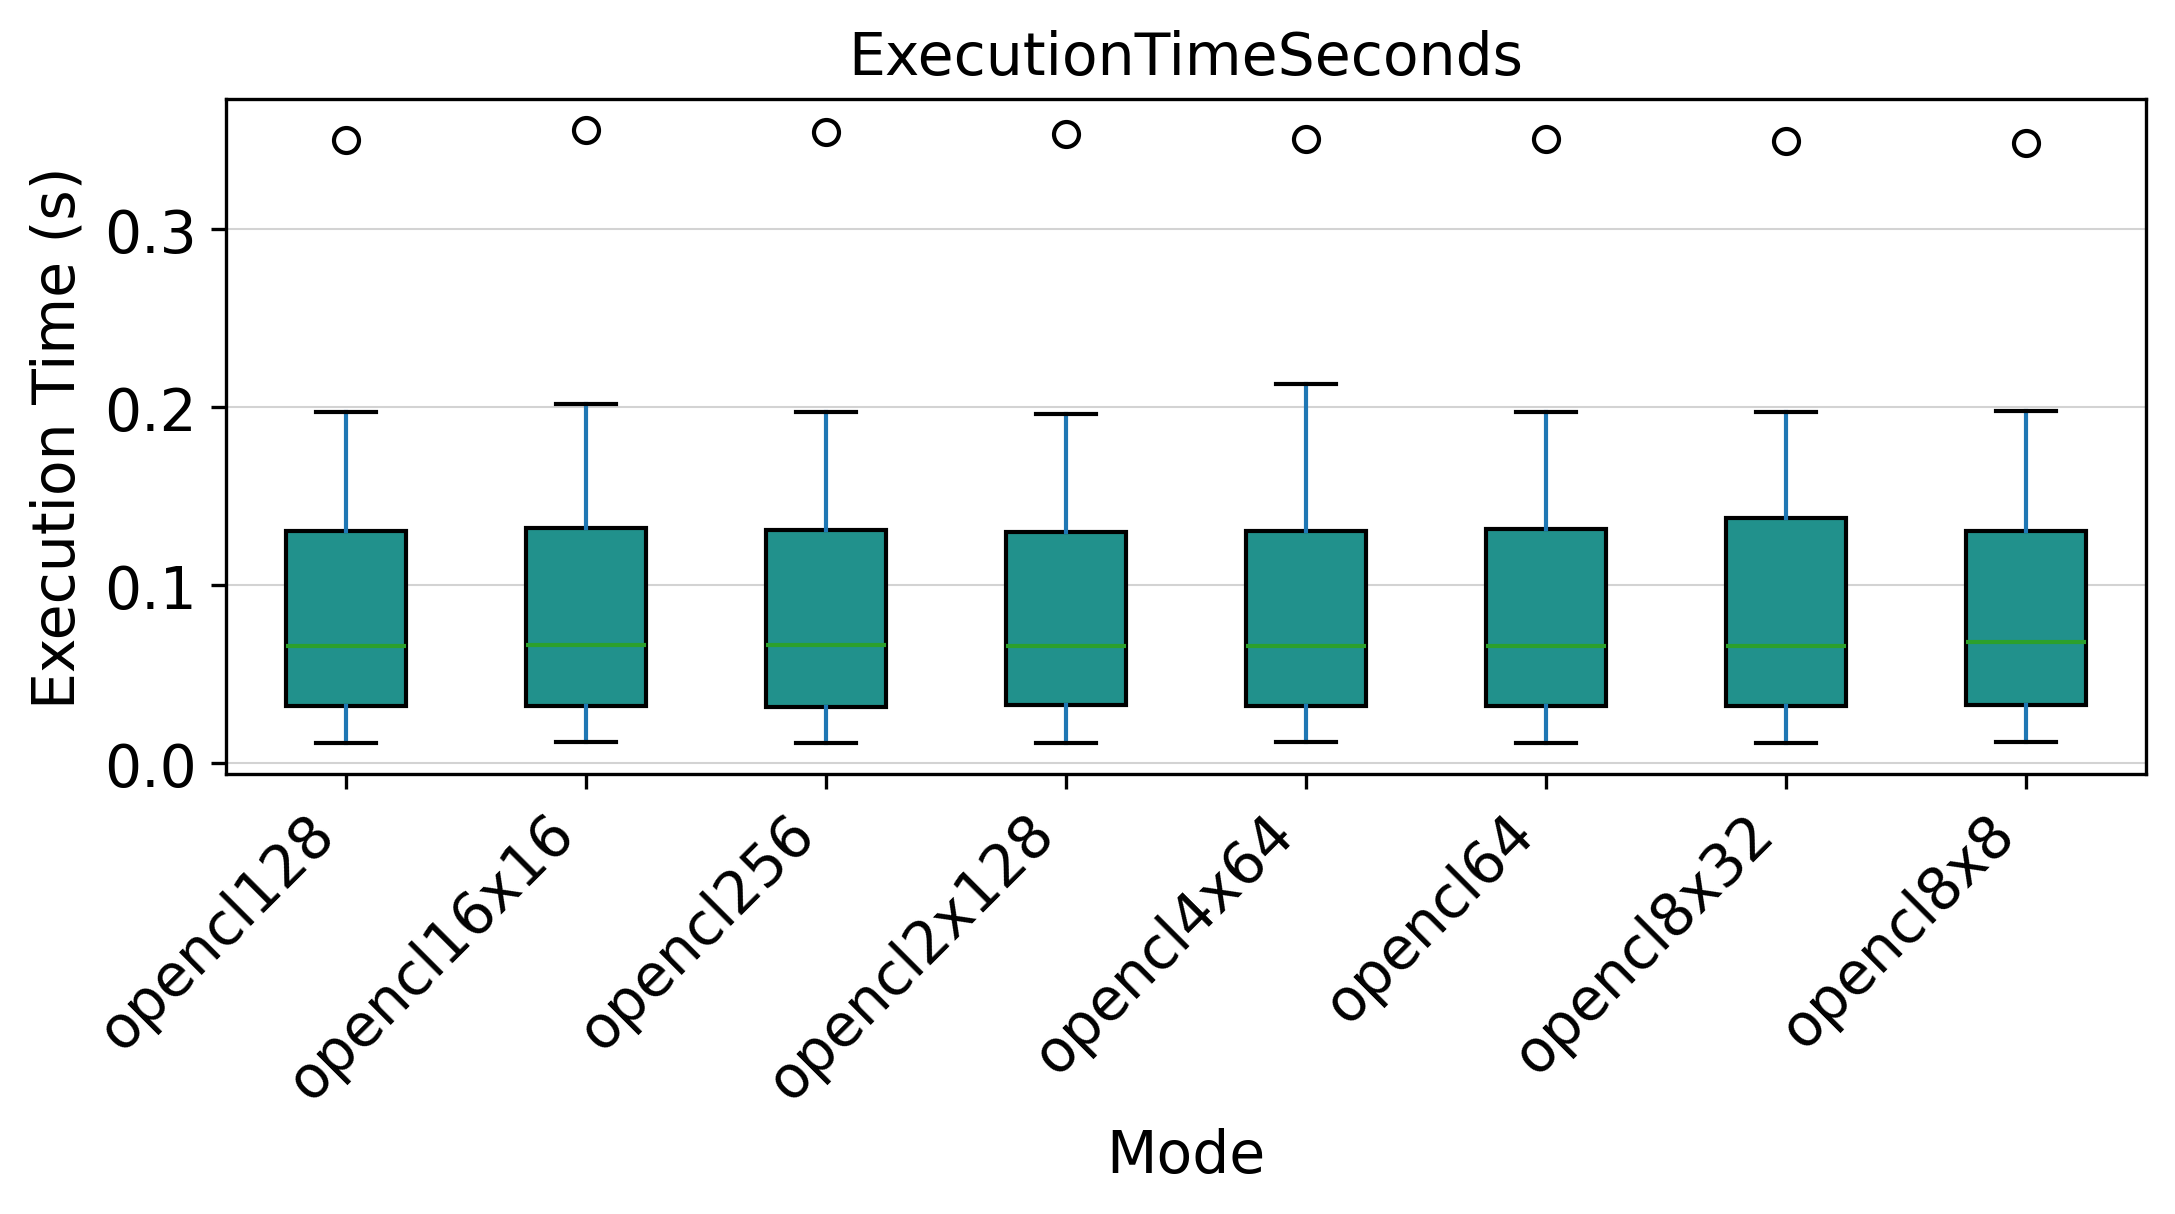
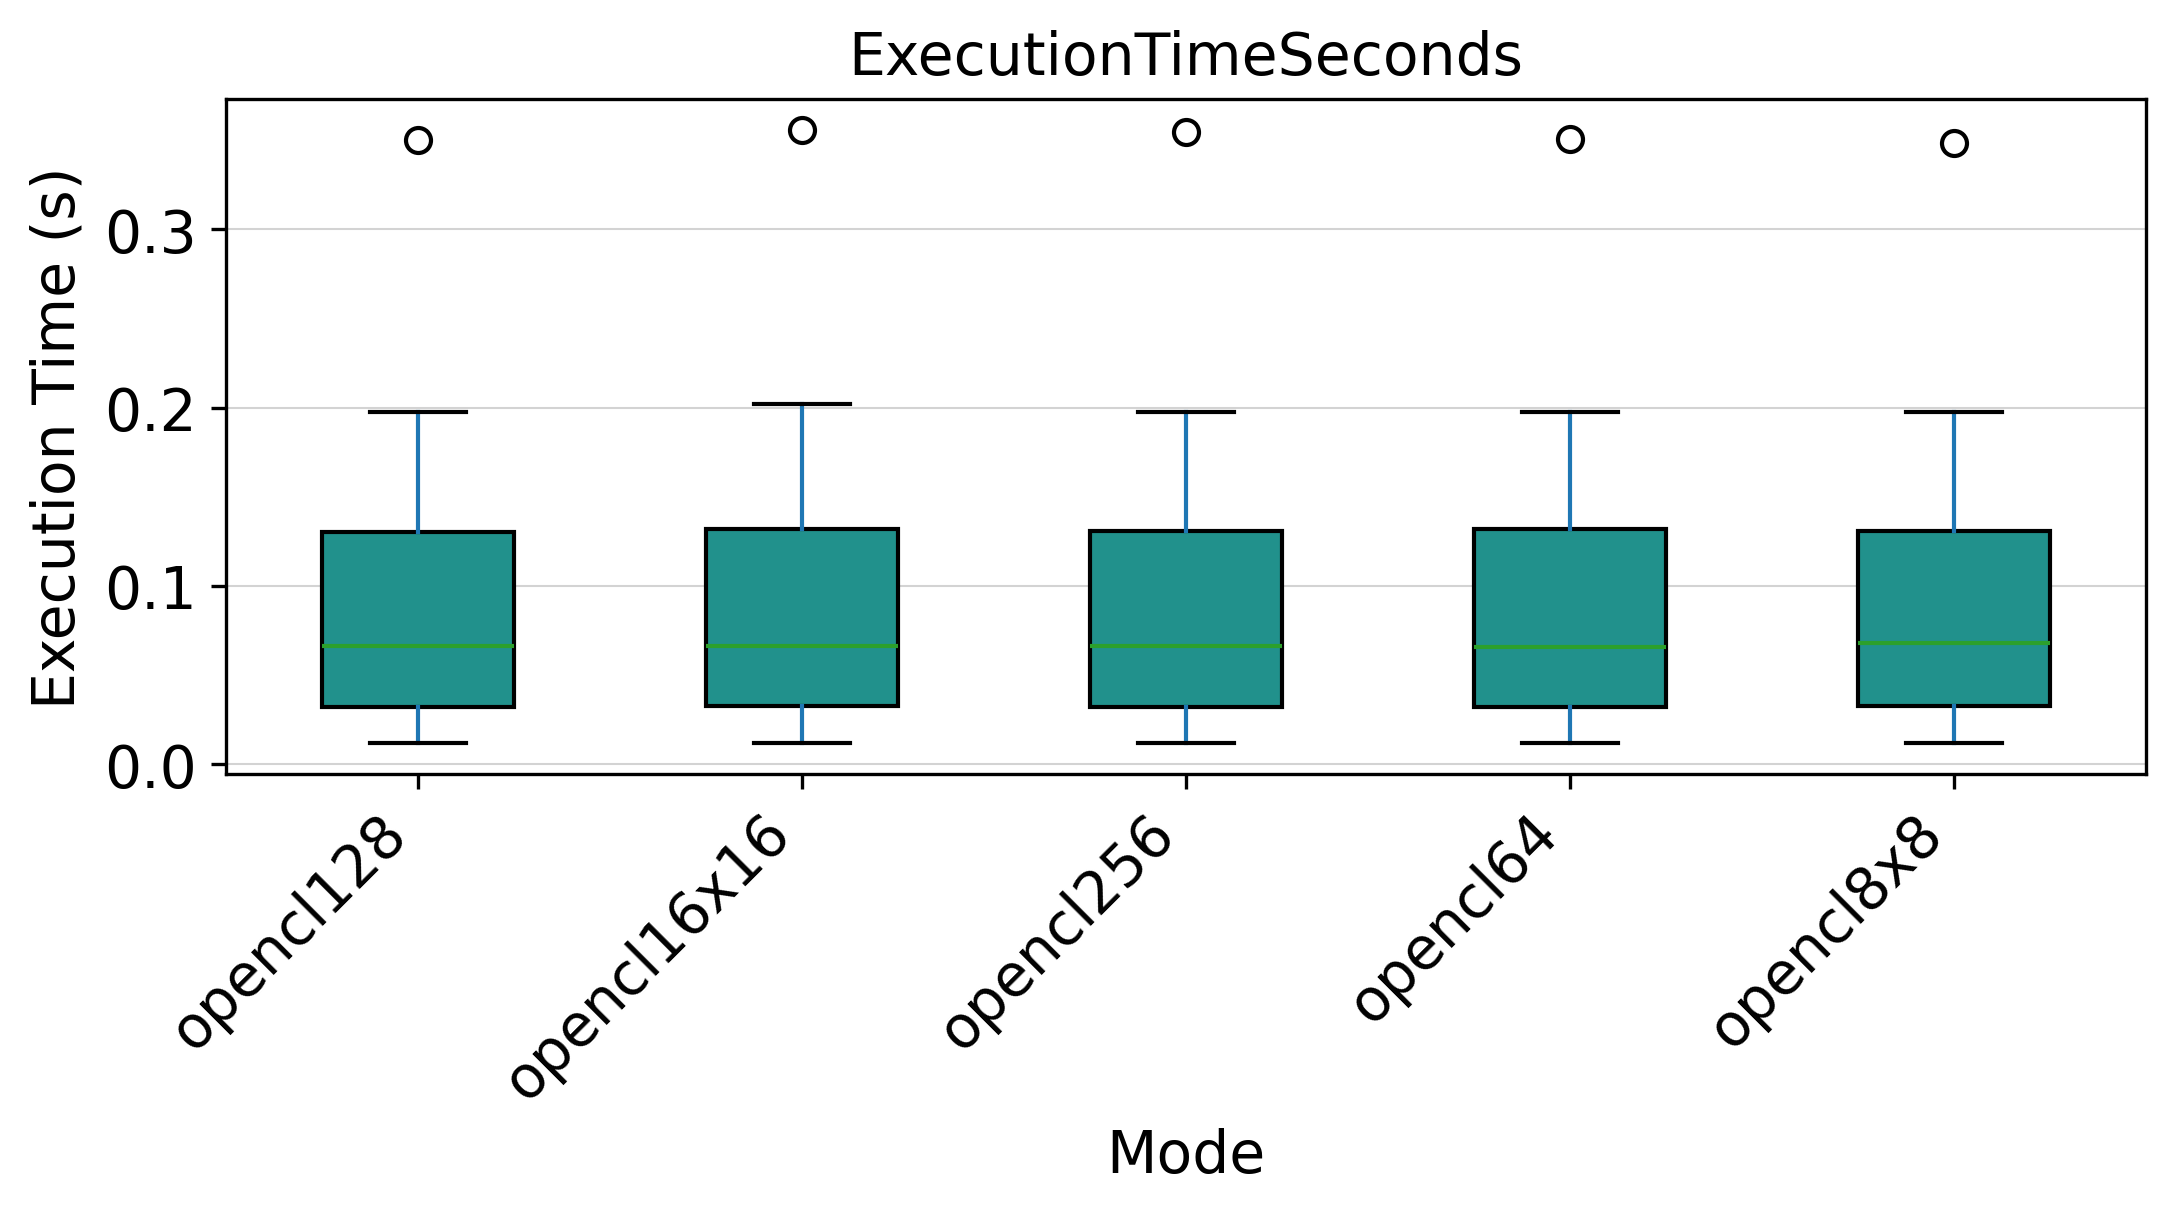
update main.py, clean code

diff --git a/visualize/main.py b/visualize/main.py
@@ -21,9 +21,10 @@ import os
 import pandas as pd
 import matplotlib.pyplot as plt
 from PIL import Image
+import numpy as np
 
 # Path to the CSV file containing execution time and image file data.
-csv_path = "../backup/intel/results.csv"
+csv_path = "../backup/m2pro/results.csv"
 
 # Directory where plots will be saved.
 output_dir = "./plots"
@@ -65,6 +66,12 @@ def analyze_csv():
 
     print("Data loaded successfully.")
 
+    # Remove rows for the mode "opencl32x16"
+    df = df[df["Mode"] != "opencl32x16"]
+    df = df[df["Mode"] != "opencl4x64"]
+    df = df[df["Mode"] != "opencl8x32"]
+    df = df[df["Mode"] != "opencl2x128"]
+
     # Dictionary to store computed image sizes keyed by image file path.
     image_sizes = {}
 
@@ -96,6 +103,12 @@ def analyze_csv():
         "axes.labelsize": 14
     })
 
+    # Set up a color map for different modes.
+    mode_colors = {'non-parallel': (np.float64(0.267004), np.float64(0.004874), np.float64(0.329415), np.float64(1.0)), 'opencl128': (np.float64(0.278826), np.float64(0.17549), np.float64(0.483397), np.float64(1.0)), 'opencl16x16': (np.float64(0.229739), np.float64(0.322361), np.float64(0.545706), np.float64(1.0)), 'opencl256': (np.float64(0.172719), np.float64(0.448791), np.float64(0.557885), np.float64(1.0)), 'opencl512': (np.float64(0.127568), np.float64(0.566949), np.float64(0.550556), np.float64(1.0)), 'opencl64': (np.float64(0.157851), np.float64(0.683765), np.float64(0.501686), np.float64(1.0)), 'opencl8x8': (np.float64(0.369214), np.float64(0.788888), np.float64(0.382914), np.float64(1.0)), 'opencv': (np.float64(0.678489), np.float64(0.863742), np.float64(0.189503), np.float64(1.0))}
+
+    print("Mode colors:", mode_colors)
+
+
     # -------------------------------------------------------------------------
     # Boxplot: Execution Time Distribution by Mode
     fig1, ax1 = plt.subplots(figsize=(8, 3))
@@ -112,7 +125,7 @@ def analyze_csv():
     ax1.grid(axis='y', color='lightgray', linestyle='-', linewidth=0.5, zorder=-1)
     ax1.set_xticklabels(ax1.get_xticklabels(), rotation=45, ha='right')
     plt.suptitle("")
-    save_plot(fig1, "boxplot_execution_time_per_mode.png")
+    save_plot(fig1, "boxplot_execution_time_per_mode_mac.png")
 
     # -------------------------------------------------------------------------
     # Boxplot: Execution Time Distribution for OpenCL Modes
@@ -131,7 +144,7 @@ def analyze_csv():
     ax2.grid(axis='y', color='lightgray', linestyle='-', linewidth=0.5, zorder=-1)
     ax2.set_xticklabels(ax2.get_xticklabels(), rotation=45, ha='right')
     plt.suptitle("")
-    save_plot(fig2, "boxplot_execution_time_opencl_modes.png")
+    save_plot(fig2, "boxplot_execution_time_opencl_modes_mac.png")
 
     # -------------------------------------------------------------------------
     # Bar Chart: Average Execution Time per Mode
@@ -140,7 +153,7 @@ def analyze_csv():
     fig3, ax3 = plt.subplots(figsize=(8, 3))
     avg_time_per_mode.plot(
         kind="bar",
-        color=[plt.cm.viridis(i / len(avg_time_per_mode)) for i in range(len(avg_time_per_mode))],
+        color=[mode_colors[mode] for mode in avg_time_per_mode.index],
         edgecolor="black",
         ax=ax3,
         zorder=3
@@ -148,14 +161,14 @@ def analyze_csv():
     ax3.set_xlabel("Mode")
     ax3.set_ylabel("Execution Time (s)")
     ax3.grid(axis='y', color='lightgray', linestyle='-', linewidth=0.5, zorder=-1)
-    save_plot(fig3, "barchart_avg_execution_time_per_mode.png")
+    save_plot(fig3, "barchart_avg_execution_time_per_mode_mac.png")
 
     # -------------------------------------------------------------------------
     # Bar Chart: Average Execution Time per Mode (Log Scale)
     fig4, ax4 = plt.subplots(figsize=(8, 3))
     avg_time_per_mode.plot(
         kind="bar",
-        color=[plt.cm.viridis(i / len(avg_time_per_mode)) for i in range(len(avg_time_per_mode))],
+        color=[mode_colors[mode] for mode in avg_time_per_mode.index],
         edgecolor="black",
         ax=ax4,
         zorder=3
@@ -164,7 +177,7 @@ def analyze_csv():
     ax4.set_xlabel("Mode")
     ax4.set_ylabel("Execution Time (s)")
     ax4.grid(axis='y', which='both', color='lightgray', linestyle='-', linewidth=0.5, zorder=-1)
-    save_plot(fig4, "barchart_avg_execution_time_per_mode_logscale.png")
+    save_plot(fig4, "barchart_avg_execution_time_per_mode_logscale_mac.png")
 
     # -------------------------------------------------------------------------
     # Bar Chart: Average Execution Time for OpenCL Modes
@@ -172,7 +185,7 @@ def analyze_csv():
     fig5, ax5 = plt.subplots(figsize=(8, 3))
     avg_time_opencl.plot(
         kind="bar",
-        color=[plt.cm.viridis(i / len(avg_time_opencl)) for i in range(len(avg_time_opencl))],
+        color=[mode_colors[mode] for mode in avg_time_opencl.index],
         edgecolor="black",
         ax=ax5,
         zorder=3
@@ -180,7 +193,7 @@ def analyze_csv():
     ax5.set_xlabel("Mode")
     ax5.set_ylabel("Execution Time (s)")
     ax5.grid(axis='y', color='lightgray', linestyle='-', linewidth=0.5, zorder=-1)
-    save_plot(fig5, "barchart_avg_execution_time_opencl_modes.png")
+    save_plot(fig5, "barchart_avg_execution_time_opencl_modes_mac.png")
 
     # -------------------------------------------------------------------------
     # Line Plot: Execution Time vs. Total Pixels by Mode
@@ -189,13 +202,13 @@ def analyze_csv():
         group_sorted = group.sort_values("TotalPixels")
         x = group_sorted["TotalPixels"]
         y = group_sorted["ExecutionTimeSeconds"]
-        color = plt.cm.viridis(i / len(df["Mode"].unique()))
+        color = mode_colors[mode]
         ax6.plot(x, y, label=mode, marker="o", color=color)
     ax6.set_xlabel("Total Pixels")
     ax6.set_ylabel("Execution Time (s)")
-    ax6.legend(title="Mode", loc="upper center", bbox_to_anchor=(0.5, 1.45), ncol=4, frameon=True)
+    ax6.legend(title="Mode", loc="upper center", bbox_to_anchor=(0.5, 1.35), ncol=4, frameon=True)
     ax6.grid(color='lightgray', linestyle='-', linewidth=0.5, zorder=-1)
-    save_plot(fig6, "lineplot_execution_time_vs_total_pixels.png")
+    save_plot(fig6, "lineplot_execution_time_vs_total_pixels_mac.png")
 
     # -------------------------------------------------------------------------
     # Line Plot: Execution Time vs. Total Pixels by Mode (Log Scale)
@@ -204,14 +217,14 @@ def analyze_csv():
         group_sorted = group.sort_values("TotalPixels")
         x = group_sorted["TotalPixels"]
         y = group_sorted["ExecutionTimeSeconds"]
-        color = plt.cm.viridis(i / len(df["Mode"].unique()))
+        color = mode_colors[mode]
         ax7.plot(x, y, label=mode, marker="o", color=color)
     ax7.set_yscale("log")
     ax7.set_xlabel("Total Pixels")
     ax7.set_ylabel("Execution Time (s)")
-    ax7.legend(title="Mode", loc="upper center", bbox_to_anchor=(0.5, 1.45), ncol=4, frameon=True)
+    ax7.legend(title="Mode", loc="upper center", bbox_to_anchor=(0.5, 1.35), ncol=4, frameon=True)
     ax7.grid(color='lightgray', linestyle='-', linewidth=0.5, which='both', zorder=-1)
-    save_plot(fig7, "lineplot_execution_time_vs_total_pixels_logscale.png")
+    save_plot(fig7, "lineplot_execution_time_vs_total_pixels_logscale_mac.png")
 
     # -------------------------------------------------------------------------
     # Line Plot: Execution Time vs. Total Pixels for OpenCL Modes Only
@@ -220,13 +233,14 @@ def analyze_csv():
         group_sorted = group.sort_values("TotalPixels")
         x = group_sorted["TotalPixels"]
         y = group_sorted["ExecutionTimeSeconds"]
-        color = plt.cm.viridis(i / len(opencl_modes["Mode"].unique()))
+        color = mode_colors[mode]
         ax8.plot(x, y, label=mode, marker="o", color=color)
+    ax8.set_yscale("log")     
     ax8.set_xlabel("Total Pixels")
     ax8.set_ylabel("Execution Time (s)")
-    ax8.legend(title="Mode", loc="upper center", bbox_to_anchor=(0.5, 1.45), ncol=4, frameon=True)
+    ax8.legend(title="Mode", loc="upper center", bbox_to_anchor=(0.5, 1.35), ncol=4, frameon=True)
     ax8.grid(color='lightgray', linestyle='-', linewidth=0.5, zorder=-1)
-    save_plot(fig8, "lineplot_execution_time_vs_total_pixels_opencl_modes.png")
+    save_plot(fig8, "lineplot_execution_time_vs_total_pixels_opencl_modes_mac.png")
 
     # -------------------------------------------------------------------------
     # Grouped Bar Chart: Average Execution Time by Image Category and Mode
@@ -246,7 +260,7 @@ def analyze_csv():
     ax9.set_ylabel("Execution Time (s)")
     ax9.legend(title="Mode")
     ax9.grid(axis='y', color='lightgray', linestyle='-', linewidth=0.5, zorder=-1)
-    save_plot(fig9, "grouped_barchart_execution_time_by_category.png")
+    save_plot(fig9, "grouped_barchart_execution_time_by_category_mac.png")
 
     # -------------------------------------------------------------------------
     # Grouped bar chart: Average execution time by image category for OpenCL modes.
@@ -269,7 +283,7 @@ def analyze_csv():
         loc="upper right", 
     )
     ax10.grid(axis='y', color='lightgray', linestyle='-', linewidth=0.5, zorder=-1)
-    save_plot(fig10, "grouped_barchart_execution_time_opencl_by_category.png")
+    save_plot(fig10, "grouped_barchart_execution_time_opencl_by_category_mac.png")
 
     # -------------------------------------------------------------------------
     # Heatmap: Execution Time by Category and Mode
@@ -286,7 +300,7 @@ def analyze_csv():
     ax11.set_xticklabels(heatmap_data.columns, rotation=45, ha="right")
     ax11.set_yticks(range(len(heatmap_data.index)))
     ax11.set_yticklabels(heatmap_data.index)
-    save_plot(fig11, "heatmap_execution_time_by_category_and_mode.png")
+    save_plot(fig11, "heatmap_execution_time_by_category_and_mode_mac.png")
 
     # -------------------------------------------------------------------------
     # Heatmap: Execution Time by Category for OpenCL Modes
@@ -300,7 +314,7 @@ def analyze_csv():
     ax12.set_xticklabels(heatmap_opencl_data.columns, rotation=45, ha="right")
     ax12.set_yticks(range(len(heatmap_opencl_data.index)))
     ax12.set_yticklabels(heatmap_opencl_data.index)
-    save_plot(fig12, "heatmap_execution_time_opencl_by_category_and_mode.png")
+    save_plot(fig12, "heatmap_execution_time_opencl_by_category_and_mode_mac.png")
 
 
 if __name__ == "__main__":
